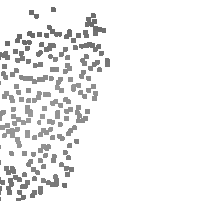
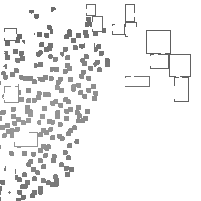
Add remove tree

diff --git a/world_maker/terraforming.py b/world_maker/terraforming.py
@@ -1,0 +1,54 @@
+from typing import Union
+
+import numpy as np
+from gdpc import Editor, Block, geometry
+from PIL import Image
+from skimage import morphology
+
+from world_maker.data_analysis import handle_import_image
+
+
+def remove_trees(heightmap: Union[str, Image], treesmap: Union[str, Image], mask: Union[str, Image], ):
+
+    editor = Editor(buffering=True)
+    build_area = editor.getBuildArea()
+    build_rectangle = build_area.toRect()
+
+    start = build_rectangle.begin
+
+    distance = (max(build_rectangle.end[0], build_rectangle.begin[0]) - min(build_rectangle.end[0], build_rectangle.begin[0]), max(
+        build_rectangle.end[1], build_rectangle.begin[1]) - min(build_rectangle.end[1], build_rectangle.begin[1]))
+
+    heightmap = handle_import_image(heightmap).convert('L')
+    treesmap = handle_import_image(treesmap).convert('L')
+    mask = handle_import_image(mask)
+
+    removed_treesmap = Image.new("RGB", distance, 0)
+
+    removed = []
+    for x in range(0, distance[0]):
+        for z in range(0, distance[1]):
+
+            if mask.getpixel((x, z)) == 255 and treesmap.getpixel((x, z)) > 0 and (x, z) not in removed:
+
+                treeArea = morphology.flood(treesmap, (z, x), tolerance=1)
+                blend = Image.blend(Image.fromarray(treeArea).convert(
+                    'RGB'), removed_treesmap.convert('RGB'), 0.5)
+
+                array = np.array(blend.convert('L'))
+                bool_array = array > 1
+                removed_treesmap = Image.fromarray(bool_array)
+
+                removed.append((x, z))
+                print(x, z)
+
+    removed_treesmap.save('./world_maker/data/removed_treesmap.png')
+
+    for x in range(0, distance[0]):
+        for z in range(0, distance[1]):
+            print("removing tree in ", start[0] + x, start[1] + z)
+            if removed_treesmap.getpixel((x, z)) != 0:
+                y = heightmap.getpixel((x, z))
+                y_top = removed_treesmap.getpixel((x, z))
+                geometry.placeLine(
+                    editor, (start[0] + x, y+1, start[1] + z), (start[0] + x, y_top, start[1] + z), Block('air'))

diff --git a/main.py b/main.py
@@ -5,6 +5,7 @@ import gdpc.exceptions
 from world_maker.world_maker import *
 from world_maker.data_analysis import transpose_form_heightmap
 from world_maker.Skeleton import Skeleton, simplify_coordinates
+from world_maker.terraforming import remove_trees
 from networks.geometry.Point3D import Point3D
 from networks.roads_2.Road import Road
 from networks.legacy_roads import roads
@@ -20,9 +21,12 @@ def main():
     buildArea = editor.getBuildArea()
     origin = ((buildArea.begin).x, (buildArea.begin).z)
 
-    set_roads(skeleton_mountain, origin)
-    set_roads(skeleton_highway, origin)
-    set_roads_grids(road_grid, origin)
+    remove_trees('./world_maker/data/heightmap.png',
+                 './world_maker/data/treemap.png', './world_maker/data/smooth_sobel_watermap.png')
+
+    # set_roads(skeleton_mountain, origin)
+    # set_roads(skeleton_highway, origin)
+    # set_roads_grids(road_grid, origin)
     # roads.setRoads(skeleton_mountain)
     # roads.setRoads(skeleton_highway)
 
